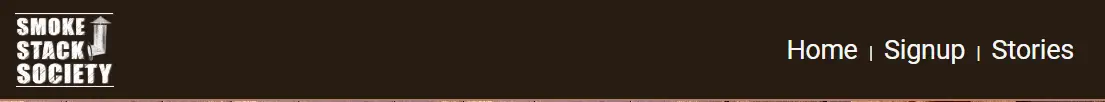
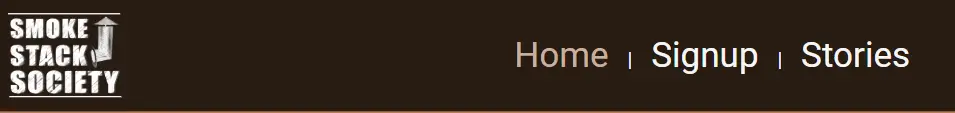
update readme.md with parallex image section

diff --git a/README.md b/README.md
@@ -17,6 +17,7 @@ Welcome to the Readme file for the business website of **SmokeStack Society**, b
     - [Hero Section](#hero-section)
     - [Motivational Boxes](#motivational-boxes)
     - [Information Boxes](#information-boxes)
+    - [Parallax Image](#parallax-image)
     - [Footer](#footer)
     - [Sign Up Page](#sign-up-page)
     - [Customer Testimonials](#customer-testimonials)
@@ -82,7 +83,7 @@ The site logo was designed by myself using the Impact Font, an online image (all
 
 #### Header and Navigation Bar
 
-The simple header uses a dark background, inline with the site colour palette, with the logo positioned left, and a simple text navigation bar, positioned oi the right. The Header is fully responsive.
+The simple header uses a dark background, inline with the site colour palette, with the logo positioned left, and a simple text navigation bar, positioned on the right. The Header is fully responsive and the navbar uses active CSS classes to indicate to the user which page is currently visited.
 
 ![Site Header](assets/images/readme-images/readme-navbar.webp)
 
@@ -106,6 +107,11 @@ Unlike the motivational boxes, the information boxes (further down the main land
 
 ![Site Informational Boxes](assets/images/readme-images/readme-information-boxes.webp)
 
+#### Parallax Image
+
+The landing page contains a visually appealing parallax image which scrolls when the site is viewed on desktop (1200px+) screen sizes, but remains static on smaller screens, since parallax scrolling is currently not fully supported on most mobile browsers. The static background image was positioned to look good on both mobile and tablet screen sizes.
+
+![Site Parallax image on landing page](assets/images/readme-images/parallax-image.webp)
 
 #### Footer
 
